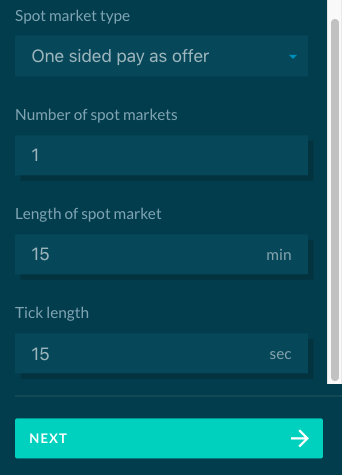
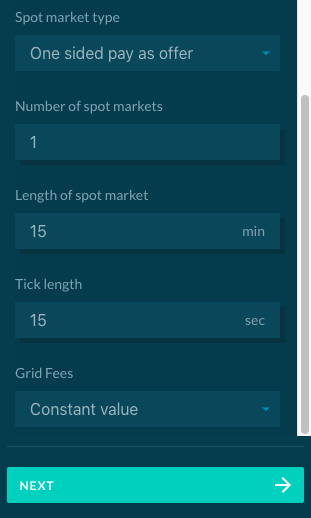
wiki changes

diff --git a/wiki/docs/bills.md b/wiki/docs/bills.md
@@ -30,18 +30,20 @@ In the bills.json file, bills will be reported multiple times according to the d
 Now we will look at the results of our previous example. The first point of view is the highest market and in our case the Grid market : 
 
 
-![img](img/bills-3.png){:style="display: block;margin-left: auto;margin-right: auto;height:600px;width:280px"}
+![img](img/bills-3.png){:style="display: block;margin-left: auto;margin-right: auto;height:620px;width:300px"}
+![img](img/bills-4.png){:style="display: block;margin-left: auto;margin-right: auto;height:310px;width:300px"}
 
-From the point of view of the Grid, the House 1 area has bought 1 kWh from the DSO and spent 0.375€ in this trade. House 1 also pays the market fee that the Grid is charging : 0.075€. 
+From the point of view of the Grid, the House 1 area has bought 1 kWh from the DSO and spent 0.375€ in this trade. House 1 also pays the market fee that the Grid is charging : 0.075€. The total cost is then 0.375 + 0.075 = 0.45€
 
 After that we go down in the hierarchy  and look from the House 1 market :
 
-![img](img/bills-4.png){:style="display: block;margin-left: auto;margin-right: auto;height:580px;width:260px"}
+![img](img/bills-5.png){:style="display: block;margin-left: auto;margin-right: auto;height:500px;width:300px"}
+![img](img/bills-6.png){:style="display: block;margin-left: auto;margin-right: auto;height:310px;width:300px"}
 
 The House 1 market has no information on the other markets and this why from its point of view the Load has spent 0.45€ (0.0375+0.075) for 1 kWh and no fees are added up because this market has no fee.
 
 At the very end of the results we have the bills of each device (from their point of view):
 
-![img](img/bills-5.png){:style="display: block;margin-left: auto;margin-right: auto;height:400px;width:255px"}
+![img](img/bills-7.png){:style="display: block;margin-left: auto;margin-right: auto;height:360px;width:300px"}
 
 With this we see that the Load, from his point of view has bought 1 kWh for 0.45€. From the point of view of the DSO, this latter only received 0.375€ for 1 kWh.

diff --git a/wiki/docs/general-settings.md b/wiki/docs/general-settings.md
@@ -25,6 +25,9 @@ General Settings is where the general simulation parameters are set. The configu
 
 - **Tick length:** Amount of time between two "heartbeats" of the simulation, influences e.g. the number of price updates.
 
+- **Grid Fees:** The user can select on of the 2 types of grid fee : [Constant grid fee](constant-fees.md) and [Percentage grid fee](percentage-fees.md)
+
+
 The interface for selecting general settings is shown below:
 
 ![img](img/general-settings-1.png)
